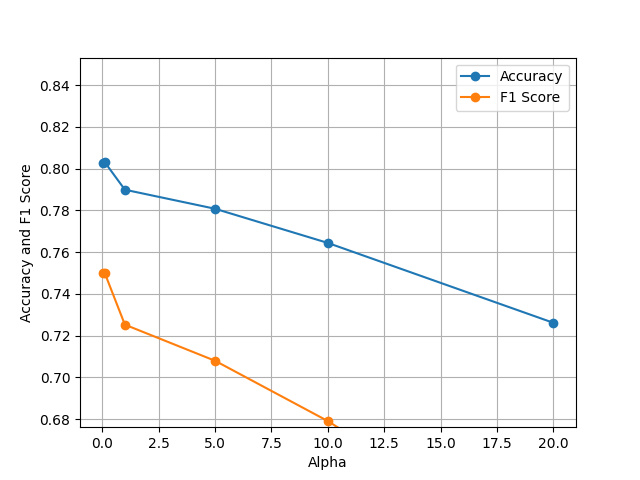
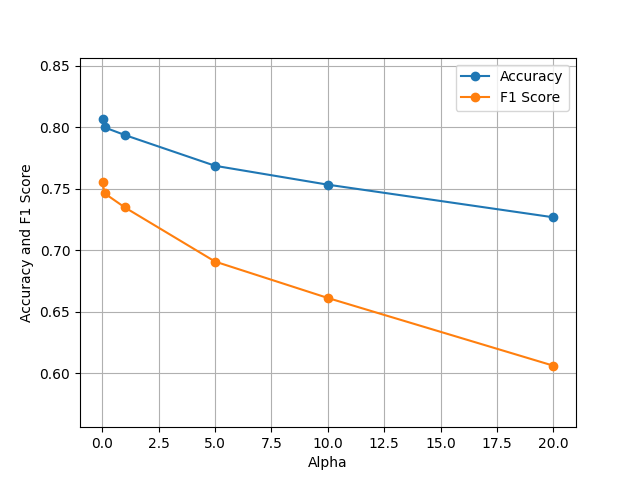
fixed graphs

diff --git a/ozel/main_credit.py b/ozel/main_credit.py
@@ -87,7 +87,7 @@ def run_knn():
 
     plt.plot(hyperparams["k"], accuracies, label="Accuracy", marker="o")
     plt.plot(hyperparams["k"], f1_scores, label="F1 Score", marker="o")
-    plt.ylim(min(accuracies) - 0.05, max(accuracies) + 0.05)
+    plt.ylim(min(*accuracies, *f1_scores) - 0.05, max(*accuracies, *f1_scores) + 0.05)
     plt.xlabel("Number of Neighbors")
     plt.ylabel("Accuracy and F1 Score")
     plt.legend()
@@ -162,84 +162,12 @@ def run_rf():
 
     plt.plot(hyperparams["n_tree"], accuracies, label="Accuracy", marker="o")
     plt.plot(hyperparams["n_tree"], f1_scores, label="F1 Score", marker="o")
-    plt.ylim(min(accuracies) - 0.05, max(accuracies) + 0.05)
+    plt.ylim(min(*accuracies, *f1_scores) - 0.05, max(*accuracies, *f1_scores) + 0.05)
     plt.xlabel("Number of Trees")
     plt.ylabel("Accuracy and F1 Score")
     plt.legend()
     plt.grid()
     plt.savefig("ozel/figures/credit_rf.png")
-    plt.clf()
-
-def run_nn():
-    credit_df = pd.read_csv("data/credit_approval.csv")
-    cat_columns = [col for col in credit_df.columns if col.endswith("cat")]
-    transformer = make_column_transformer((OneHotEncoder(sparse_output=False), cat_columns), remainder="passthrough")
-    credit_df = transformer.fit_transform(credit_df)
-    credit_df = pd.DataFrame(credit_df, columns=transformer.get_feature_names_out())
-    credit_df.rename(columns={"remainder__label": "label"}, inplace=True)
-    credit_df = normalize_data(credit_df)
-    splitter = StratifiedKFold(k=10)
-
-    models = [
-        NeuralNet(layers=[68, 100, 1], step_size=0.1, lambda_reg=0.1, batch_size=100, epochs=30),
-        NeuralNet(layers=[68, 80, 100, 80, 40, 1], step_size=0.1, lambda_reg=0.1, batch_size=100, epochs=30),
-        NeuralNet(layers=[68, 80, 80, 40, 1], step_size=0.1, lambda_reg=0.1, batch_size=100, epochs=50),
-        NeuralNet(layers=[68, 100, 1], step_size=0.1, lambda_reg=0.01, batch_size=100, epochs=50),
-        NeuralNet(layers=[68, 150, 40, 20, 1], step_size=0.1, lambda_reg=0.01, batch_size=100, epochs=50),
-    ]
-
-    best_model = None
-    best_accuracy = 0
-    best_f1_score = 0
-    best_losses = None
-
-    for model in models:
-        avg_accuracy = 0
-        avg_f1_score = 0
-        losses = []
-        for train_split, test_split in splitter.get_splits(credit_df):
-            X_train = train_split.drop(columns=["label"]).to_numpy()
-            y_train = train_split["label"].to_numpy()
-
-            X_test = test_split.drop(columns=["label"]).to_numpy()
-            y_test = test_split["label"].to_numpy()
-
-            loss = model.fit(X_train, y_train)
-            tp, fp, fn, tn = model.confusion_matrix(X_test, y_test)
-            accuracy = (tp + tn) / (tp + tn + fp + fn)
-            precision = tp / (tp + fp) if tp + fp != 0 else 0
-            recall = tp / (tp + fn) if tp + fn != 0 else 0
-            f1_score = 2 * precision * recall / (precision + recall) if precision + recall != 0 else 0
-
-            avg_accuracy += accuracy
-            avg_f1_score += f1_score
-            losses.append(loss)
-        
-        avg_accuracy /= 10
-        avg_f1_score /= 10
-        
-        if avg_accuracy > best_accuracy:
-            best_model = model
-            best_accuracy = avg_accuracy
-            best_f1_score = avg_f1_score
-            best_losses = losses
-    
-    print(f"Best Model {best_model.model_str()}")
-    print(f"Best Accuracy: {best_accuracy}")
-    print(f"Best F1 Score: {best_f1_score}")
-
-    with open("ozel/results/credit_nn.txt", "w") as f:
-        f.write(f"Best Model {best_model.model_str()}\n")
-        f.write(f"Best Accuracy: {best_accuracy}\n")
-        f.write(f"Best F1 Score: {best_f1_score}\n")
-    
-    for i, l in enumerate(best_losses):
-        plt.plot(l, label=f"Fold {i}")
-    plt.xlabel("Epochs")
-    plt.ylabel("Regualrized J")
-    plt.legend()
-    plt.grid()
-    plt.savefig("ozel/figures/credit_nn.png")
     plt.clf()
 
 def run_nb():
@@ -315,7 +243,7 @@ def run_nb():
     
     plt.plot(hyperparams["alpha"], accuracies, label="Accuracy", marker="o")
     plt.plot(hyperparams["alpha"], f1_scores, label="F1 Score", marker="o")
-    plt.ylim(min(accuracies) - 0.05, max(accuracies) + 0.05)
+    plt.ylim(min(*accuracies, *f1_scores) - 0.05, max(*accuracies, *f1_scores) + 0.05)
     plt.xlabel("Alpha")
     plt.ylabel("Accuracy and F1 Score")
     plt.legend()
@@ -326,5 +254,4 @@ def run_nb():
 if __name__ == "__main__":
     run_knn()
     run_rf()
-    # run_nn()
     run_nb()

diff --git a/ozel/main_parkinsons.py b/ozel/main_parkinsons.py
@@ -72,7 +72,7 @@ def run_rf():
     
     plt.plot(hyperparams["n_tree"], accuracies, label="Accuracy", marker="o")
     plt.plot(hyperparams["n_tree"], f1_scores, label="F1 Score", marker="o")
-    plt.ylim(min(accuracies) - 0.05, max(accuracies) + 0.05)
+    plt.ylim(min(*accuracies, *f1_scores) - 0.05, max(*accuracies, *f1_scores) + 0.05)
     plt.xlabel("Number of Trees")
     plt.ylabel("Accuracy and F1 Score")
     plt.legend()
@@ -152,7 +152,7 @@ def run_knn():
 
     plt.plot(hyperparams["k"], accuracies, label="Accuracy", marker="o")
     plt.plot(hyperparams["k"], f1_scores, label="F1 Score", marker="o")
-    plt.ylim(min(accuracies) - 0.05, max(accuracies) + 0.05)
+    plt.ylim(min(*accuracies, *f1_scores) - 0.05, max(*accuracies, *f1_scores) + 0.05)
     plt.xlabel("Number of Neighbors")
     plt.ylabel("Accuracy and F1 Score")
     plt.legend()
@@ -227,7 +227,7 @@ def run_nb():
 
     plt.plot(hyperparams["alpha"], accuracies, label="Accuracy", marker="o")
     plt.plot(hyperparams["alpha"], f1_scores, label="F1 Score", marker="o")
-    plt.ylim(min(accuracies) - 0.05, max(accuracies) + 0.05)
+    plt.ylim(min(*accuracies, *f1_scores) - 0.05, max(*accuracies, *f1_scores) + 0.05)
     plt.xlabel("Alpha")
     plt.ylabel("Accuracy and F1 Score")
     plt.legend()

diff --git a/ozel/main_rice.py b/ozel/main_rice.py
@@ -72,7 +72,7 @@ def run_rf():
 
     plt.plot(hyperparams["n_tree"], accuracies, label="Accuracy", marker="o")
     plt.plot(hyperparams["n_tree"], f1_scores, label="F1 Score", marker="o")
-    plt.ylim(min(accuracies) - 0.05, max(accuracies) + 0.05)
+    plt.ylim(min(*accuracies, *f1_scores) - 0.05, max(*accuracies, *f1_scores) + 0.05)
     plt.xlabel("Number of Trees")
     plt.ylabel("Accuracy and F1 Score")
     plt.legend()
@@ -154,7 +154,7 @@ def run_knn():
 
     plt.plot(hyperparams["k"], accuracies, label="Accuracy", marker="o")
     plt.plot(hyperparams["k"], f1_scores, label="F1 Score", marker="o")
-    plt.ylim(min(accuracies) - 0.05, max(accuracies) + 0.05)
+    plt.ylim(min(*accuracies, *f1_scores) - 0.05, max(*accuracies, *f1_scores) + 0.05)
     plt.xlabel("Number of Neighbors")
     plt.ylabel("Accuracy and F1 Score")
     plt.legend()
@@ -230,7 +230,7 @@ def run_nb():
 
     plt.plot(hyperparams["alpha"], accuracies, label="Accuracy", marker="o")
     plt.plot(hyperparams["alpha"], f1_scores, label="F1 Score", marker="o")
-    plt.ylim(min(accuracies) - 0.05, max(accuracies) + 0.05)
+    plt.ylim(min(*accuracies, *f1_scores) - 0.05, max(*accuracies, *f1_scores) + 0.05)
     plt.xlabel("Alpha")
     plt.ylabel("Accuracy and F1 Score")
     plt.legend()
